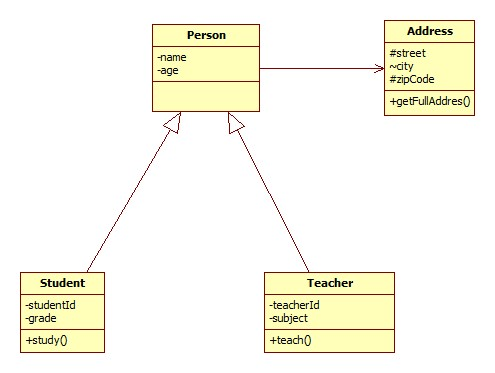
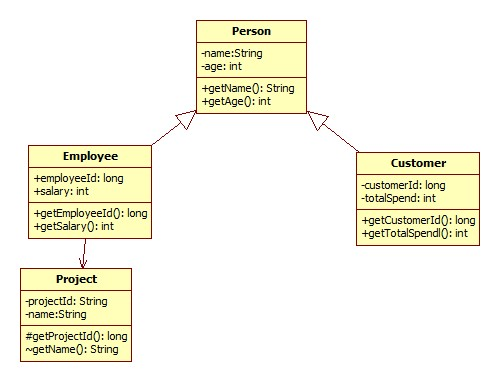
test 2

diff --git a/readme.MD b/readme.MD
@@ -1,23 +1,29 @@
-# Starting from the template, implement the following exercises:
+# Starting from the provided template, implement a program that follows the specifications below:
 
-1) Implement a program according to specifications bellow:
- ## Exercise 1
-   ![Sample image](docs/sample.jpg)
-##
-- Create the classes described in the diagram. (1p)
+![Sample image](docs/sample.jpg)
 
-- Represent the elements inside the classes correctly. (1p)
+- Create the classes described in the diagram,elements inside and represent relationships between them. (4p)
 
-- Create relationships between the classes. (2p)
+- Use a Set to store employees, add five employees, and assign a salary to each. (1p)
 
-- Create a Set of students,add five students and assign a grade to each student. (1p)
+- Extend the program to not allow duplicate employees based on the employeeId. (1p)
 
-- Create a method that computes the arithmetic mean for all students. (1p)
+- Display all the employee the salary for each employee. (1p)
 
-- Create a method that returns the student with the highest grade. (1p)
+- Implement a method to calculate the average salary of all employees and display the average. (1p)
 
-- Create a test for each method and check if the arithmetic mean is computed correctly and the student with the highest grade is found (1p)
-
-- Extend the program to not allow the same student to be added twice (check over studentId). (1p)
+- Write unit tests to verify the correctness of the average salary calculation (1p).
 
 
+
+- Create the classes described in the diagram,elements inside and represent relationships between them. (4p)
+
+- Use a Set to store customers, add four customers, and assign totalSpend to each. (1p)
+
+- Extend the program to not allow duplicate customers based on the customerId. (1p)
+
+- Display all the customers and totalSpend for each customer. (1p)
+
+- Implement a method to find the customer with the maximum amount spent and display customerId. (1p)
+
+- Write unit tests to verify the correctness of the search for the customer with the maximum amount spent . (1p)
